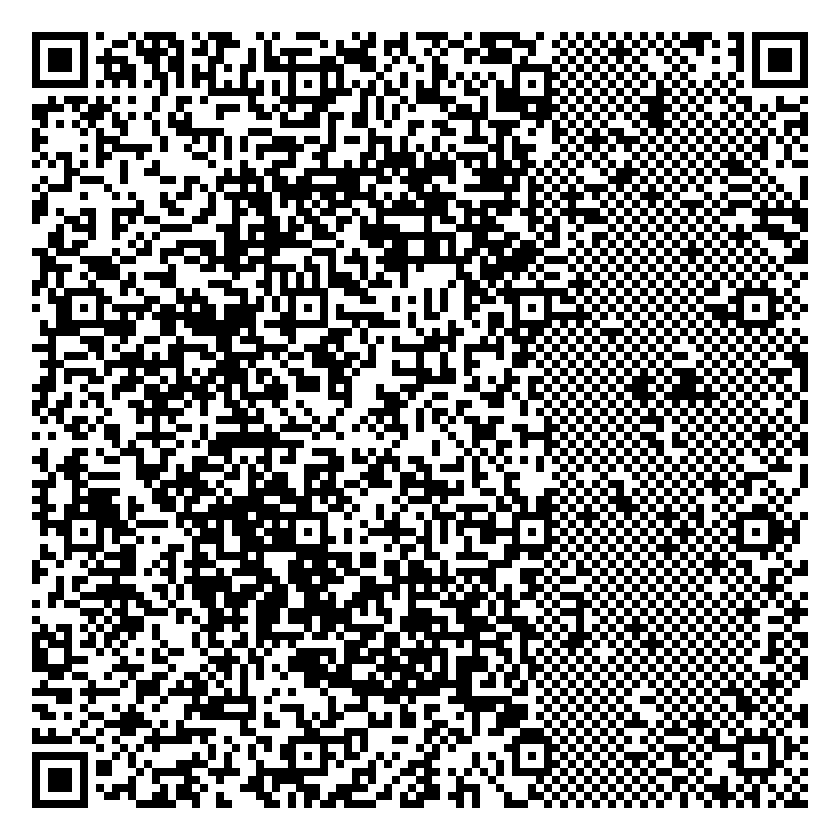
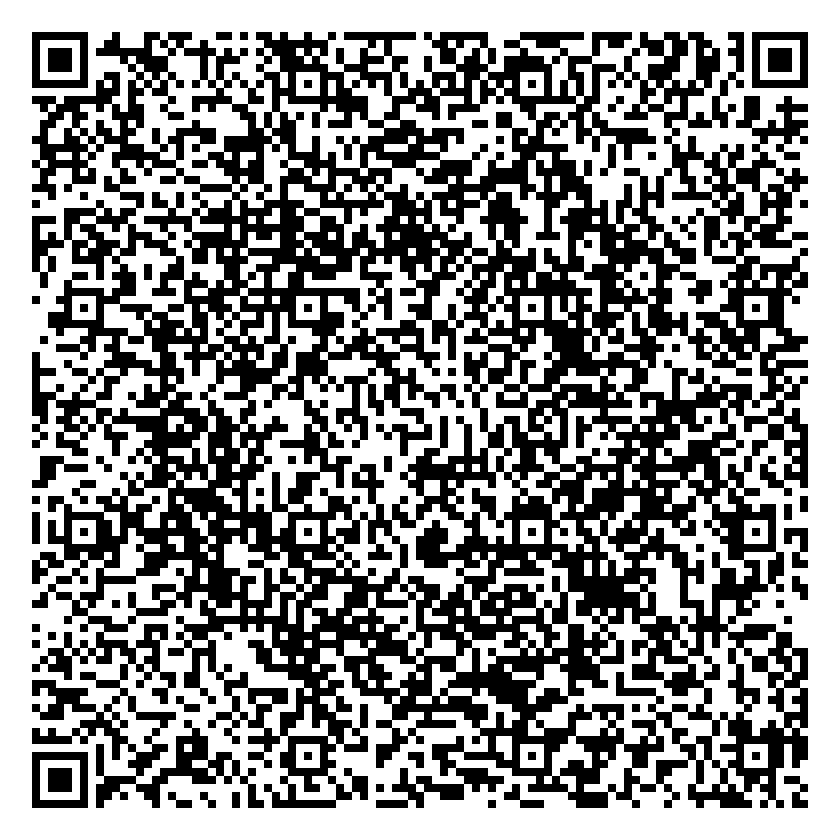
L

diff --git a/src/cli.rs b/src/cli.rs
@@ -162,7 +162,10 @@ fn derived_target_out_path(out_png: &PathBuf) -> PathBuf {
 pub fn run(args: CliArgs) -> Result<()> {
 	let ecc = match args.ecc.as_str() {
 		"H" | "h" => EccLevel::H,
-		_ => return Err(QrodeError::Internal("only ECC H is supported".into())),
+        "L" | "l" => EccLevel::L,
+        "M" | "m" => EccLevel::M,
+        "Q" | "q" => EccLevel::Q,
+		_ => return Err(QrodeError::Internal("invalid ECC level. Expected H, L, M, or Q".into())),
 	};
 
 	let spec = QrSpec {
